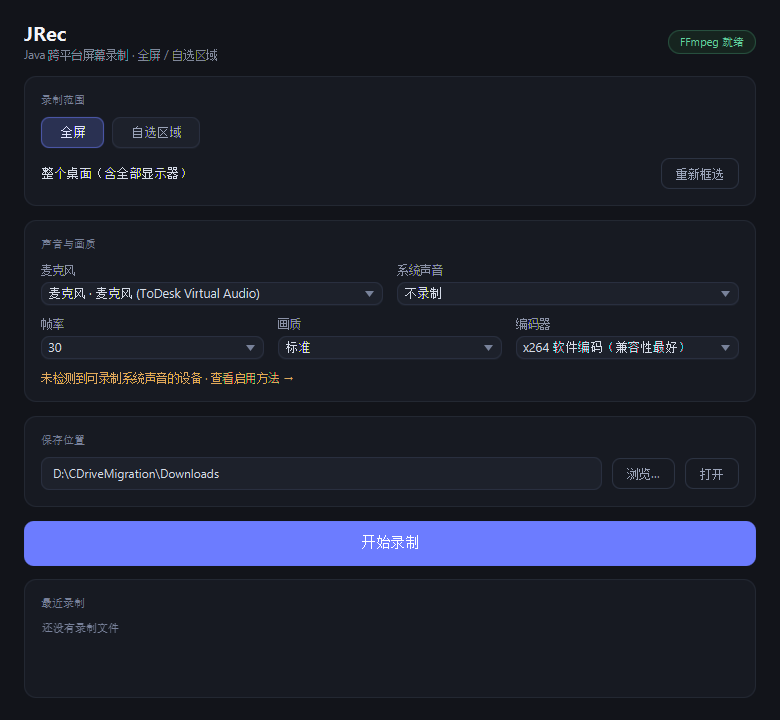
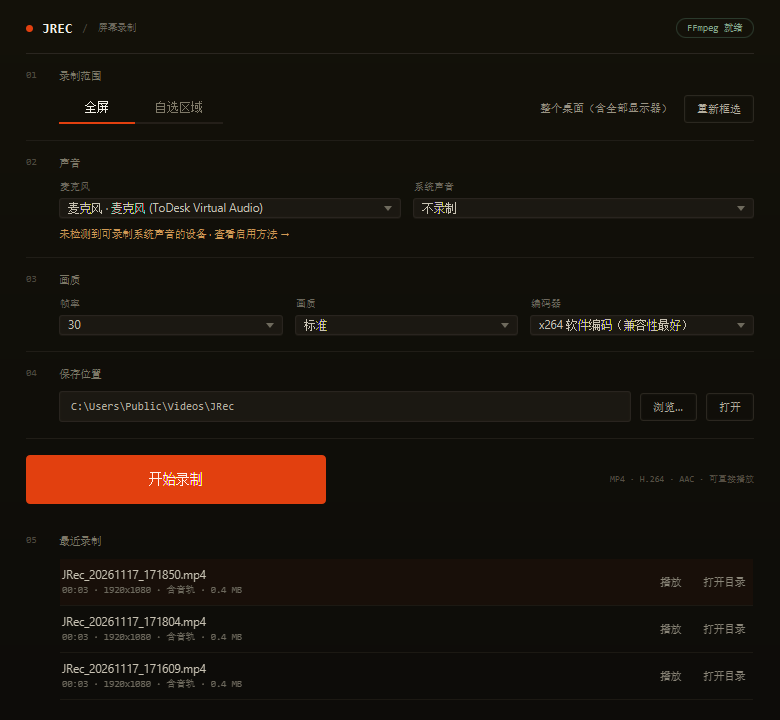
docs(ui): refresh screenshots and show capture spec while recording
- the recording screen now reports frame size, fps and codec instead of telling
  the user the file will be saved, which they can already see
- the REC dot breathes to 45% rather than 18%, so a still frame never looks broken
- documentation snapshots render a neutral save path: the real one carries the
  machine account name and session folder, which does not belong in a public repo
- dropped the unreferenced history screenshot; three images, each used

diff --git a/jrec-desktop/src/main/resources/com/rzx/jrec/desktop/style.css b/jrec-desktop/src/main/resources/com/rzx/jrec/desktop/style.css
@@ -294,9 +294,10 @@
     -fx-text-fill: #F4F1E9;
 }
 
-.rec-caption {
-    -fx-font-size: 11px;
-    -fx-text-fill: #7E7969;
+.rec-spec {
+    -fx-font-family: "Consolas";
+    -fx-font-size: 10.5px;
+    -fx-text-fill: #8B8779;
 }
 
 .rec-file {

diff --git a/jrec-desktop/src/main/java/com/rzx/jrec/desktop/dev/UiSnapshot.java b/jrec-desktop/src/main/java/com/rzx/jrec/desktop/dev/UiSnapshot.java
@@ -4,6 +4,7 @@ import com.rzx.jrec.desktop.JRecApp;
 import javafx.animation.PauseTransition;
 import javafx.application.Application;
 import javafx.application.Platform;
+import javafx.scene.control.TextField;
 import javafx.scene.image.PixelReader;
 import javafx.scene.image.WritableImage;
 import javafx.stage.Stage;
@@ -13,6 +14,8 @@ import javax.imageio.ImageIO;
 import java.awt.image.BufferedImage;
 import java.io.File;
 import java.io.IOException;
+import java.lang.reflect.Field;
+import java.lang.reflect.Method;
 
 /**
  * Developer utility: renders the real window off-screen and writes it to a PNG.
@@ -28,6 +31,15 @@ public class UiSnapshot extends Application {
 
     private static final Duration SETTLE = Duration.seconds(6);
 
+    /**
+     * Screenshots end up in a public repository, and the real save directory contains
+     * the machine's account name and the working session folder. Showing that is both
+     * noisy and needlessly personal, so the capture uses a neutral, plausible path.
+     */
+    private static final String DOC_OUTPUT_PATH = "C:" + java.io.File.separator + "Users"
+            + java.io.File.separator + "Public" + java.io.File.separator + "Videos"
+            + java.io.File.separator + "JRec";
+
     @Override
     public void start(Stage stage) {
         JRecApp app = new JRecApp();
@@ -36,6 +48,8 @@ public class UiSnapshot extends Application {
         } catch (Exception e) {
             throw new IllegalStateException("无法启动主界面", e);
         }
+
+        applyDocOutputPath(app);
 
         // Device and encoder discovery are asynchronous; snapshot only once the
         // layout has stopped changing, otherwise the combos render empty.
@@ -50,6 +64,20 @@ public class UiSnapshot extends Application {
             }
         });
         settle.play();
+    }
+
+    private void applyDocOutputPath(JRecApp app) {
+        try {
+            Field field = JRecApp.class.getDeclaredField("dirField");
+            field.setAccessible(true);
+            ((TextField) field.get(app)).setText(DOC_OUTPUT_PATH);
+
+            Method refresh = JRecApp.class.getDeclaredMethod("refreshHistory");
+            refresh.setAccessible(true);
+            refresh.invoke(app);
+        } catch (ReflectiveOperationException e) {
+            System.out.println("无法设置文档用输出路径：" + e);
+        }
     }
 
     private void write(Stage stage) throws IOException {

diff --git a/jrec-desktop/src/main/java/com/rzx/jrec/desktop/JRecApp.java b/jrec-desktop/src/main/java/com/rzx/jrec/desktop/JRecApp.java
@@ -408,8 +408,8 @@ public class JRecApp extends Application {
         timerLabel = new Label("00:00");
         timerLabel.getStyleClass().add("timer");
 
-        recordingCaption = new Label("停止后自动保存为 MP4");
-        recordingCaption.getStyleClass().add("rec-caption");
+        recordingCaption = new Label("全屏 · 30 fps · libx264");
+        recordingCaption.getStyleClass().add("rec-spec");
 
         recordingFileLabel = new Label();
         recordingFileLabel.getStyleClass().add("rec-file");
@@ -783,14 +783,20 @@ public class JRecApp extends Application {
         configView.setManaged(false);
         recordingView.setVisible(true);
         recordingView.setManaged(true);
-        recordingCaption.setText("停止后自动保存为 MP4");
-        if (recorder.config() != null) {
-            recordingFileLabel.setText(recorder.config().outputPath().getFileName().toString());
+        RecordingConfig active = recorder.config();
+        if (active != null) {
+            // Show what is actually being produced, not a reassurance the user can see
+            // for themselves. A recorder should tell you the frame size while it runs.
+            String size = active.mode() == com.rzx.jrec.core.RecordingMode.REGION && active.region() != null
+                    ? active.region().width() + " × " + active.region().height()
+                    : "全屏";
+            recordingCaption.setText(size + " · " + active.fps() + " fps · " + active.videoCodec());
+            recordingFileLabel.setText(active.outputPath().getFileName().toString());
         }
 
         recBlink = new FadeTransition(Duration.seconds(0.9), recDot);
         recBlink.setFromValue(1.0);
-        recBlink.setToValue(0.18);
+        recBlink.setToValue(0.45);
         recBlink.setCycleCount(Animation.INDEFINITE);
         recBlink.setAutoReverse(true);
         recBlink.play();

diff --git a/jrec-desktop/src/main/java/com/rzx/jrec/desktop/dev/UiFlowProbe.java b/jrec-desktop/src/main/java/com/rzx/jrec/desktop/dev/UiFlowProbe.java
@@ -69,7 +69,6 @@ public class UiFlowProbe extends Application {
                     log("停止失败：" + e);
                 }
                 after(Duration.seconds(6), () -> {
-                    snapshot(stage, "docs/screenshot-history.png");
                     reportFiles();
                     Platform.exit();
                 });
